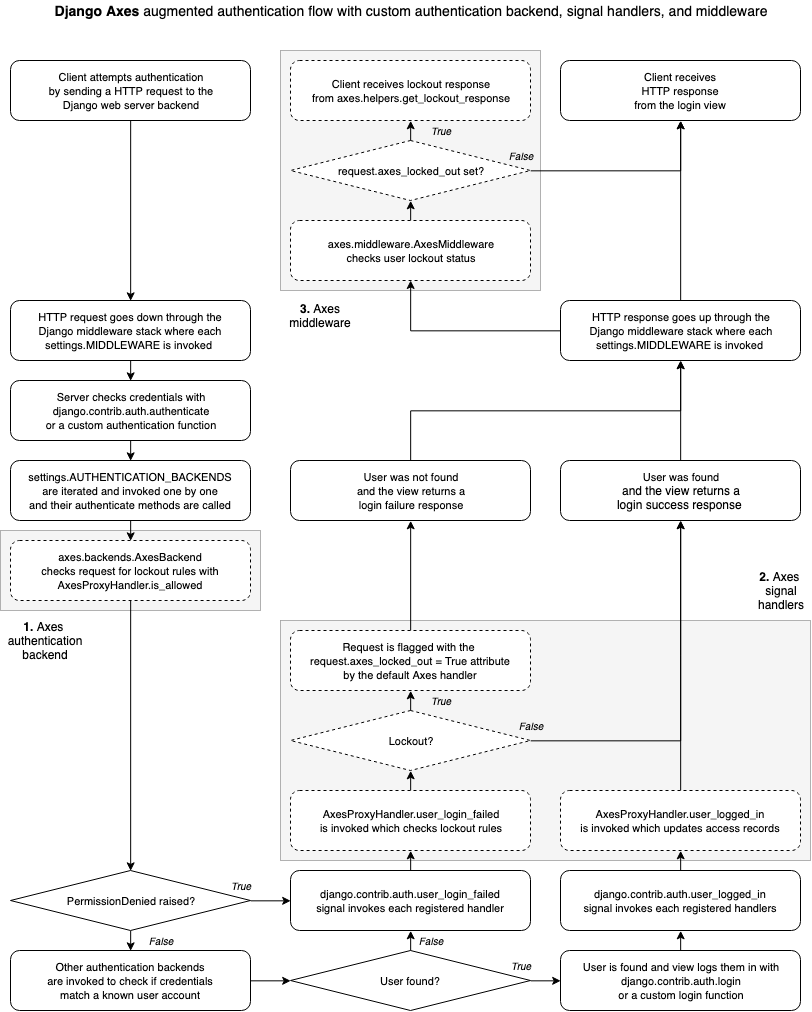
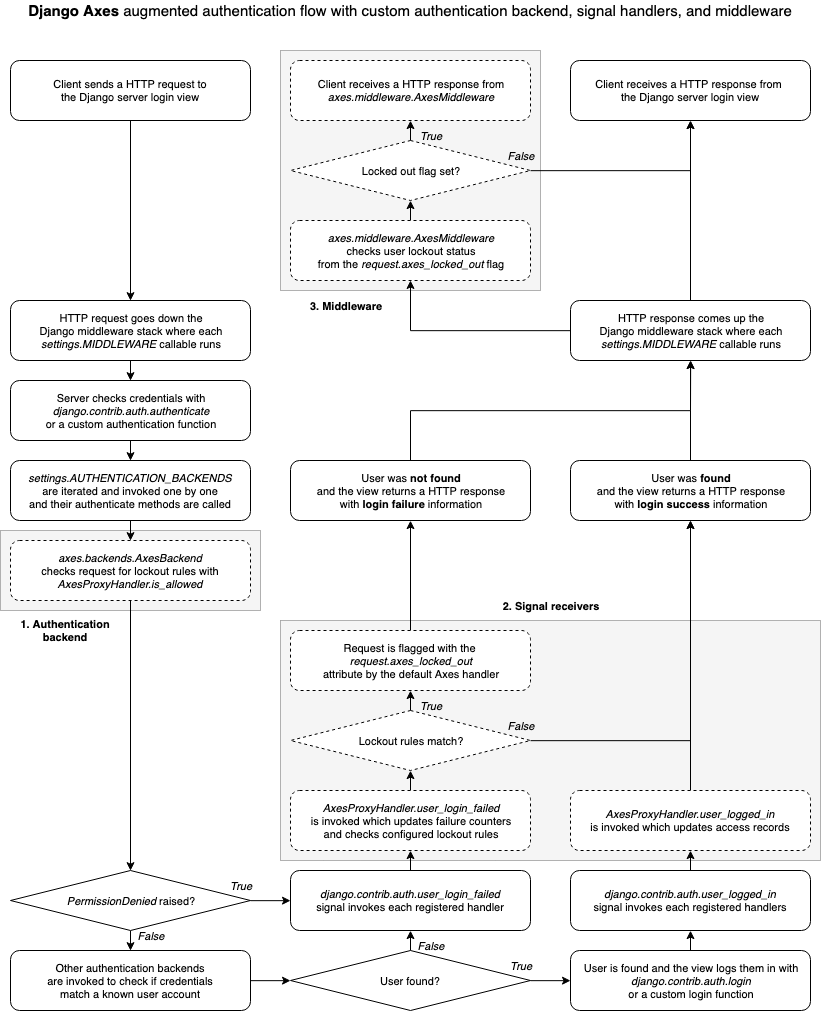
Improve architecture documentation

diff --git a/docs/7_architecture.rst b/docs/7_architecture.rst
@@ -21,106 +21,57 @@ and how Axes augments it to achieve authentication and login
 monitoring and lock users out on too many access attempts.
 
 
-Django authentication flow
---------------------------
-
-When a user tries to log in in Django, the login is usually performed
-by running a number of authentication backends that check user login
-information by calling the ``django.contrib.auth.authenticate`` function.
-
-If an authentication backend does not approve of a user login,
-it can raise a ``django.core.exceptions.PermissionDenied`` exception.
-
-If a login fails, Django then fires a
-``from django.contrib.auth.signals.user_login_failed`` signal.
-
-A normal login flow for Django runs as follows:
-
-.. code-block:: text
-
-    -  Login view is called by, for example,
-       a user sending form data with browser.
-
-    -  django.contrib.auth.authenticate is called by
-       the view code to check the authentication request
-       for credentials and return a user object matching them.
-
-    -  AUTHENTICATION_BACKENDS are iterated over
-       and their authenticate methods called one-by-one.
-
-    -  An authentication backend either returns
-       a user object which results in that user
-       being logged in or returns None.
-       If a PermissionDenied error is raised
-       by any of the authentication backends
-       the whole request authentication flow
-       is aborted and signal handlers triggered.
-
-
 Django Axes authentication flow
 -------------------------------
 
-Axes monitors logins with the ``user_login_failed`` signal handler
-and after login attempts exceed the given maximum, starts blocking them.
+Axes offers a few additions to the Django authentication flow
+that implement the login monitoring and lockouts through a swappable
+**handler** API and configuration flags that users and package vendors
+can use to customize Axes or their own projects as they best see fit.
 
-Django emits the ``user_login_failed`` signal when an authentication backend
-either raises the PermissionDenied signal or alternatively no authentication backend
-manages to recognize a given authentication request and return a user for it.
-
-The blocking is done by ``AxesBackend`` which checks every request
-coming through the Django authentication flow and verifies they
-are not blocked, and allows the requests to go through if the check passes.
-
-If any of the checks fails, an exception is raised which interrupts
-the login process and triggers the Django login failed signal handlers.
-
-Axes implements the lockout flow as follows:
-
-.. code-block:: text
-
-    -  Login view is called.
-
-    -  django.contrib.auth.authenticate is called.
-
-    -  AUTHENTICATION_BACKENDS are iterated over
-       where axes.backends.AxesBackend is the first.
-
-    -  AxesBackend checks authentication request
-       for lockout rules and either aborts the
-       authentication flow or lets the authentication
-       process proceed to the next configured
-       authentication backend in the list.
-
-    [Axes handler runs at this this stage if appropriate]
-
-    -  If the user authentication request fails due to
-       any reason, e.g. a lockout or wrong credentials,
-       Axes receives authentication failure information
-       via the axes.signals.handle_user_login_failed signal.
-
-    -  The selected Axes handler is run to check
-       the user login failure statistics and rules.
-
-    [Axes default handler implements these steps]
-
-    -  Axes logs the failure and increments the failure
-       counters which keep track of failure statistics.
-       Axes then updates the request object with a logout
-       status flag that can be processed by
-       view or middleware code as needed.
-
-    -  AxesMiddleware processes the lockout request and response
-       and returns a readable lockout message to the user.
-
-This plugin assumes that the login views either call
-the ``django.contrib.auth.authenticate`` method to log in users
-or otherwise take care of notifying Axes of authentication
-attempts or login failures the same way Django does.
-
-The login flows can be customized and the Axes
-authentication backend or middleware can be easily swapped.
+The following diagram visualizes the Django login flow
+and highlights the following extra steps that Axes adds to it with the
+**1. Authentication backend**, **2. Signal receivers**, and **3. Middleware**.
 
 .. image:: images/flow.png
    :alt: Django Axes augmented authentication flow
          with custom authentication backend,
-         signal handlers, and middleware
+         signal receivers, and middleware
+
+When a user tries to log in in Django, the login is usually performed
+by running a number of authentication backends that check user login
+information by calling the ``authenticate`` function, which either
+returns a Django compatible ``User``  object or a ``None``.
+
+If an authentication backend does not approve a user login,
+it can raise a ``PermissionDenied`` exception, which immediately
+skips the rest of the authentication backends, triggers the
+``user_login_failed`` signal, and then returns a ``None``
+to the calling function, indicating that the login failed.
+
+Axes implements authentication blocking with the custom
+``AxesBackend`` authentication backend which checks every request
+coming through the Django authentication flow and verifies they
+are not blocked, and allows the requests to go through if the check passes.
+
+If the authentication attempt matches a lockout rule, e.g. it is from a
+blacklisted IP or exceeds the maximum configured authentication attempts,
+it is blocked by raising the ``PermissionDenied`` excepton in the backend.
+
+Axes monitors logins with the ``user_login_failed`` signal receiver
+and records authentication failures from both the ``AxesBackend`` and
+other authentication backends and tracks the failed attempts
+by tracking the attempt IP address, username, user agent, or all of them.
+
+If the lockout rules match, then Axes marks the request
+as locked by setting a special attribute into the request.
+The ``AxesMiddleware`` then processes the request, returning
+a lockout response to the user, if the flag has been set.
+
+Axes assumes that the login views either call the ``authenticate`` method
+to log in users or otherwise take care of notifying Axes of authentication
+attempts and failures the same way Django does via authentication signals.
+
+The login flows can be customized and the Axes
+authentication backend, middleware, and handlers
+can easily be swapped to alternative implementations.
